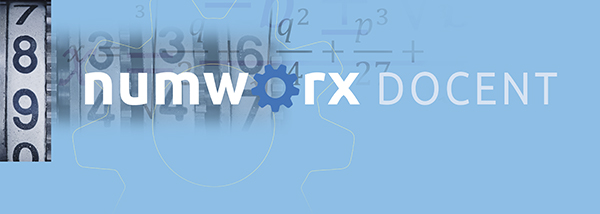
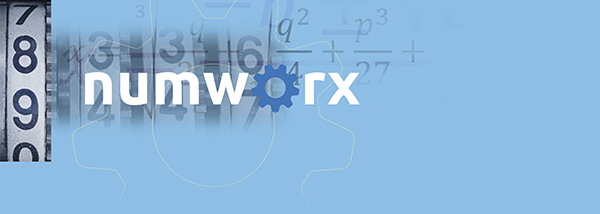
geen numworx - docent/teacher

Changed region(s): [[0.63, 0.3364, 0.93, 0.5047]]

diff --git a/src/main/html/js/MainDisplay.js b/src/main/html/js/MainDisplay.js
@@ -117,7 +117,7 @@ function MainDisplay() {
 
 MainDisplay.prototype.init = function() {
 	// Localize title
-	document.title = "Numworx " + app.getTranslator().translate( 'NUM_APP_TEACHER' );
+	document.title = "Numworx";
 	
 	// Localize logo
 	if (Helpers.getUrlParameter('locale') == 'en') {

diff --git a/src/main/html/index.html b/src/main/html/index.html
@@ -7,7 +7,7 @@
 	<meta name="viewport" content="width=1024, initial-scale=1, initial-scale=1.0, maximum-scale=1.0, user-scalable=no"> <!-- no scalable needed for android devices -->
 	
 	
-    <title>Numworx Docent</title>
+    <title>Numworx</title>
 		
     <script>
     	var API_1484_11;

diff --git a/src/main/html/css/scss/_panels.scss b/src/main/html/css/scss/_panels.scss
@@ -423,9 +423,6 @@ body {
 		position: relative;
 		width: 580px;
 		
-		.localeEn & {
-			background: transparent url(../images/login-containerBackgroundEn.jpg) no-repeat top left; // TODO: replace by def image
-		} 		
 	}
 	
 	
